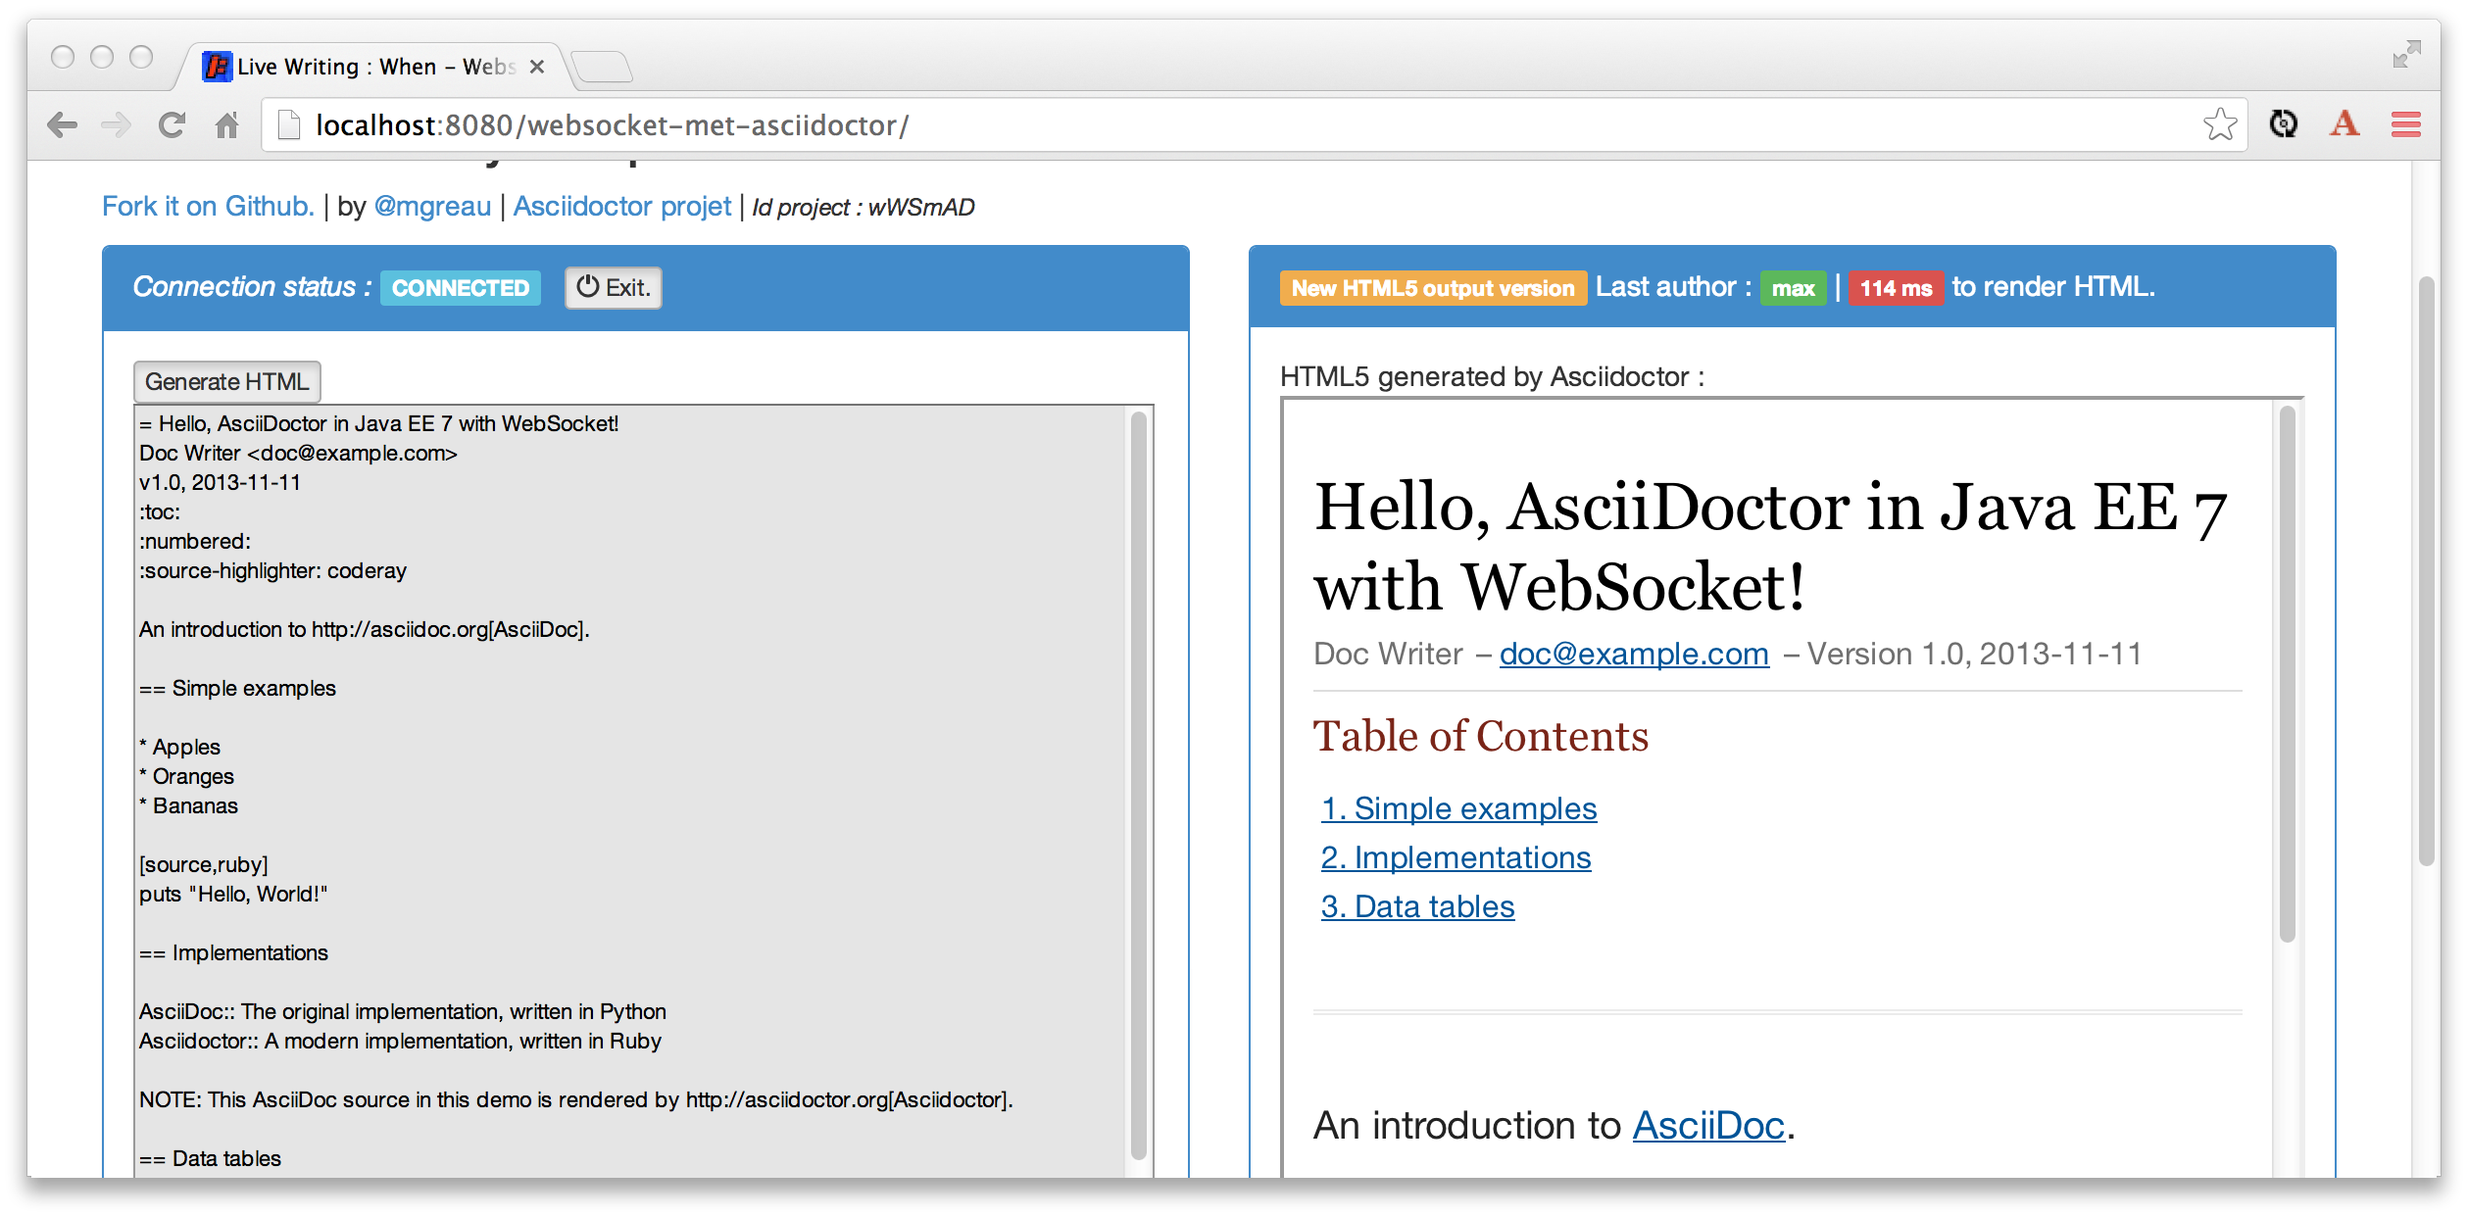
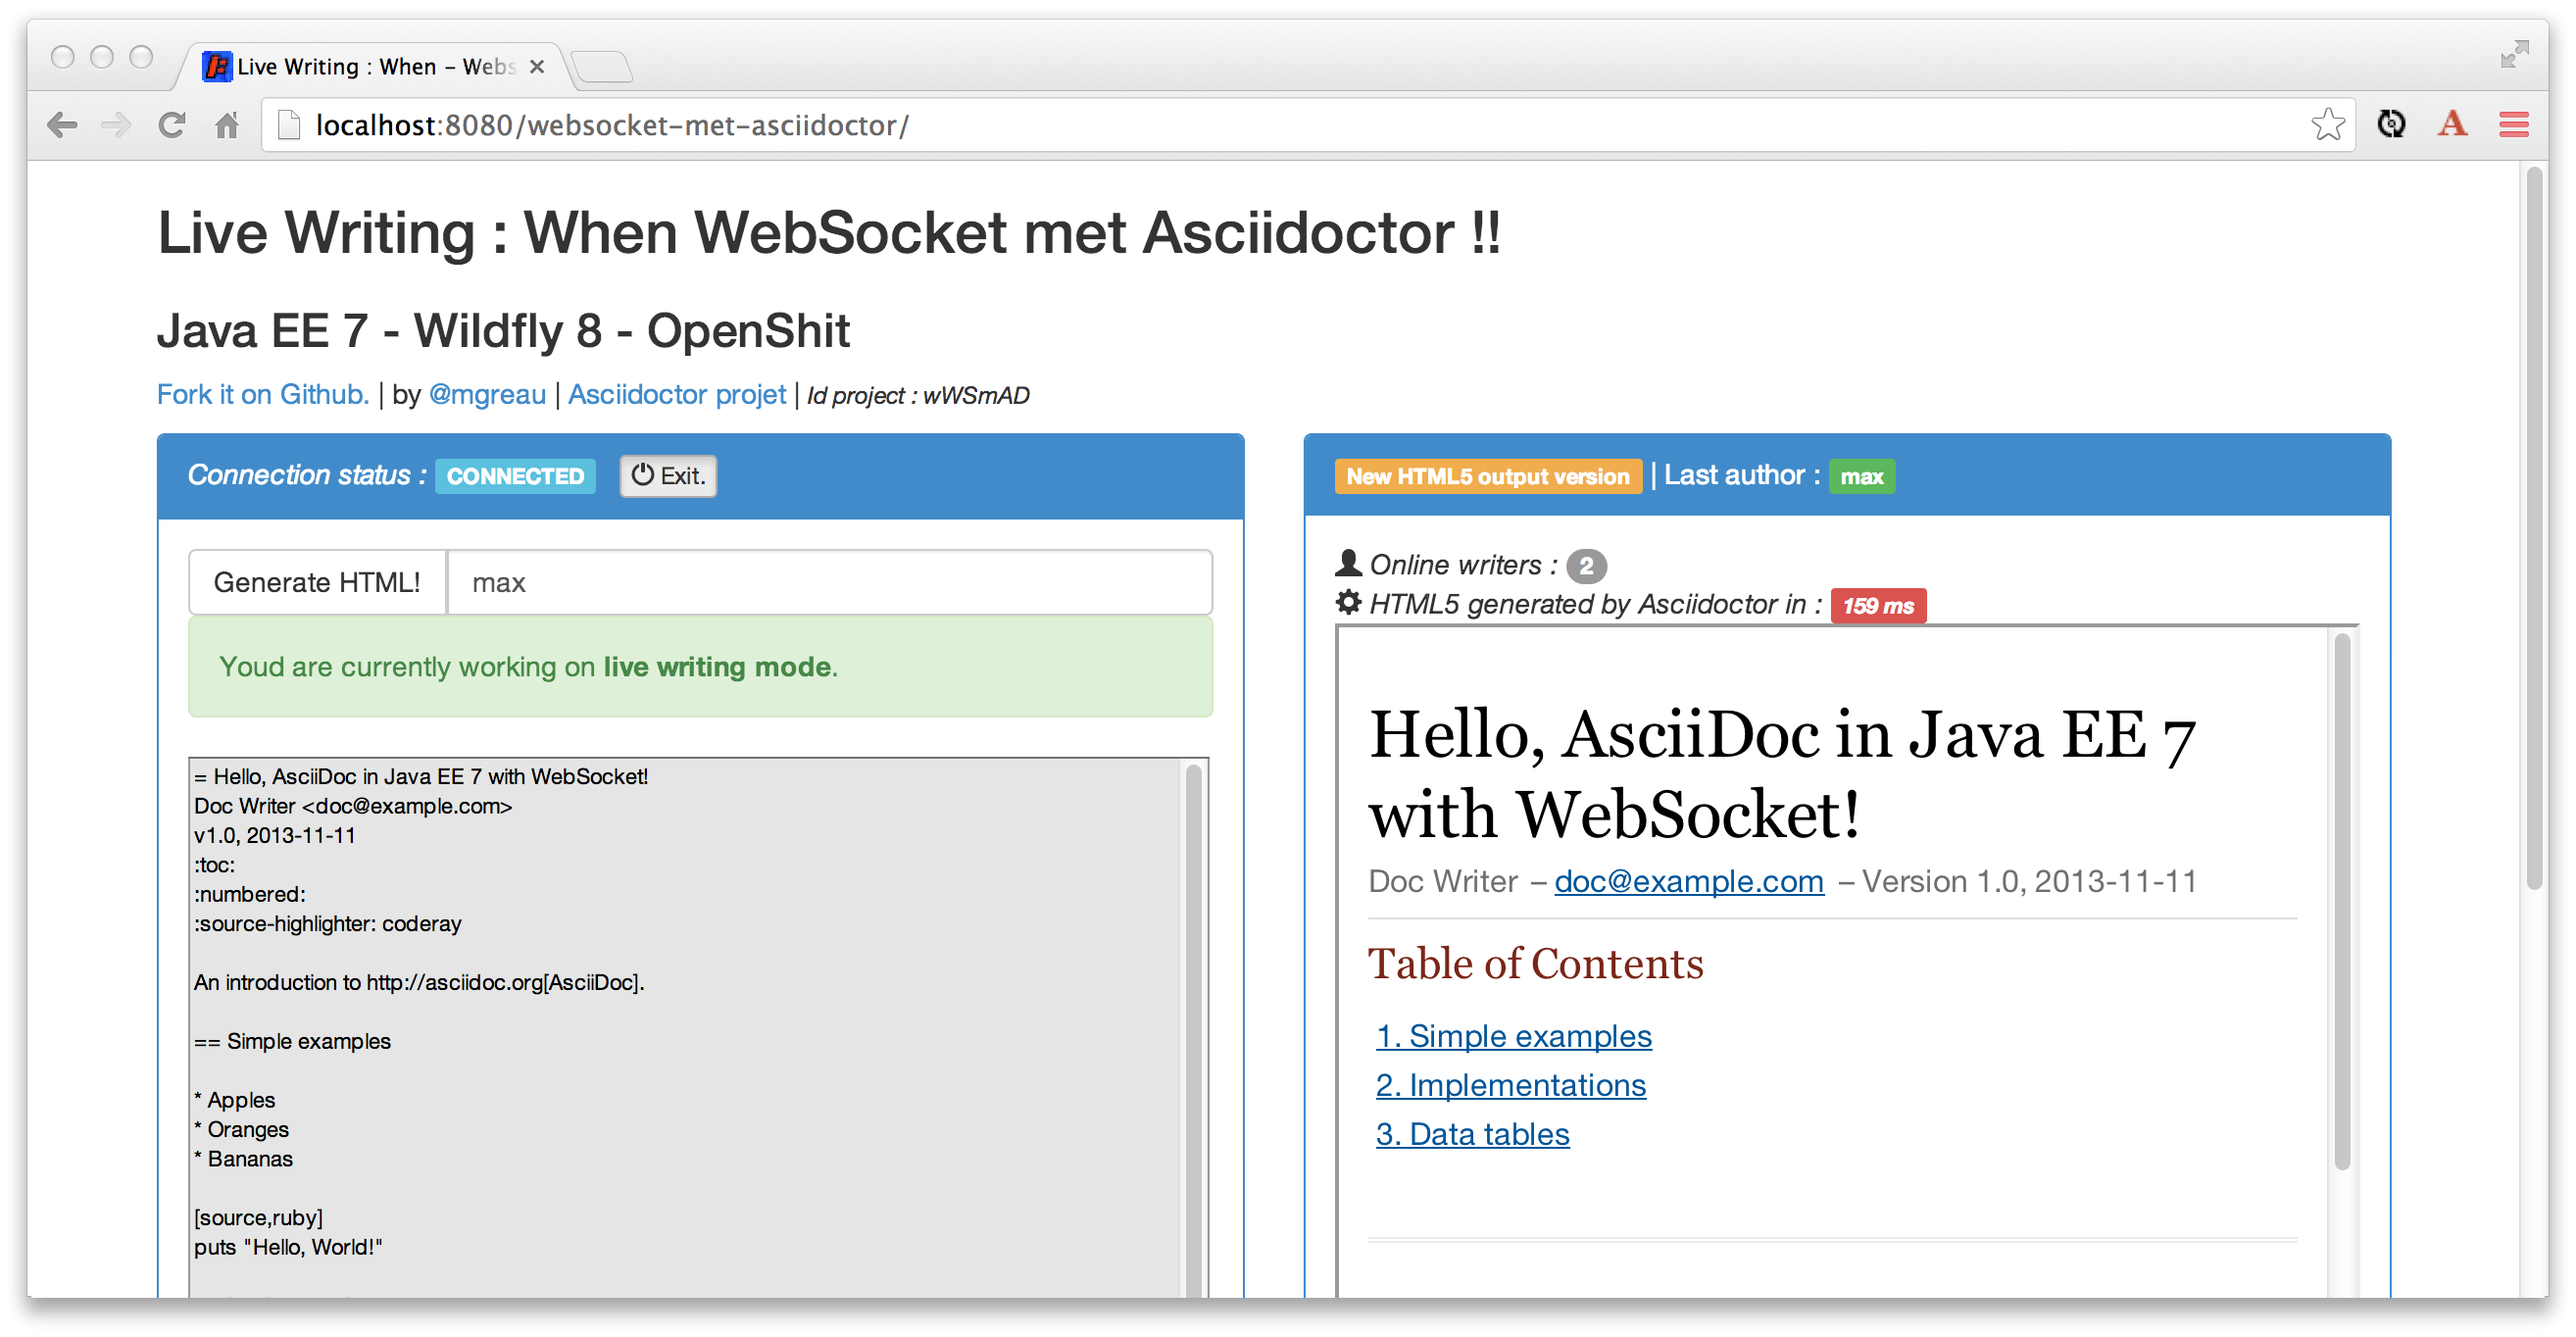
add nbWriters info + design + show the mode (live or offline)

Changed region(s): [[0.031, 0.0306, 0.9913, 0.9791], [0.9603, 0.6425, 0.9913, 0.7037], [0.0, 0.0918, 0.031, 0.1224]]

diff --git a/src/main/webapp/index.html b/src/main/webapp/index.html
@@ -10,13 +10,9 @@
 	href="http://netdna.bootstrapcdn.com/bootstrap/3.0.0/css/bootstrap.min.css">
 
 <style type="text/css">
-.sets {
+textarea input {
 	background-color: #e5E5E5;
-}
-
-.serve {
-	color: yellow;
-	background-color: #ccc
+	font: 11px;
 }
 </style>
 
@@ -40,13 +36,22 @@
 							<span class="glyphicon glyphicon-off"></span> Exit.</button>
 					</div>
 					<div class="panel-body">
-					<button class="btn btn-default active btn-xs" ng-show="lwDoc.status == 'CONNECTED'" ng-click="sendAdoc(lwDoc.key)">Generate HTML</button><br/>
-					<p ng-show="lwDoc.status == 'DISCONNECTED'">
-					  <button class="btn btn-warning active btn-xs" ng-click="connect(lwDoc.key)" >
-					<span class="glyphicon glyphicon-power"></span>click to access live writing</button></p>
-					<textarea style="font-size: 11px; background-color: #e5e5e5;" ng-model="lwDoc.adocSrc"
-						 cols="100" rows="30" ng-change="sendAdoc(lwDoc.key)"></textarea>
-					</div>
+					 	<div class="input-group" ng-show="lwDoc.status == 'CONNECTED'">
+					      <span class="input-group-btn">
+					        <button class="btn btn-default" type="button" ng-click="sendAdoc(lwDoc.key)">Generate HTML!</button>
+					      </span>
+					      <input type="text" class="form-control" placeholder="Your name (as an author)" ng-model="lwDoc.author">
+					    </div>
+						<div class="alert alert-warning" ng-show="lwDoc.status == 'DISCONNECTED'">
+						  <strong>Offline mode.</strong> Youd need <button class="btn btn-warning active btn-xs" ng-click="connect(lwDoc.key)" >
+							<span class="glyphicon glyphicon-power"></span>click to connect</button> and access live writing.
+						</div>
+						<div class="alert alert-success" ng-show="lwDoc.status == 'CONNECTED'">
+						  Youd are currently working on <strong>live writing mode</strong>.
+						</div>
+						<textarea style="font-size: 11px; background-color: #e5e5e5;" ng-model="lwDoc.adocSrc"
+							 cols="100" rows="30" ng-change="sendAdoc(lwDoc.key)"></textarea>
+						</div>
 					<div class="panel-footer">
 					</div>
 				</div>
@@ -55,12 +60,13 @@
 				<div class="panel panel-primary">
 					<div class="panel-heading">
 						<span class="label label-warning">{{lwDoc.state}}</span>
-						Last author : <span class="label label-success">{{lwDoc.html5.author}}</span> | 
-						<span class="label label-danger">{{lwDoc.html5.timeToRender}} ms</span> to render HTML.
-	
+						 | Last author : <span class="label label-success">{{lwDoc.html5.author}}</span>
 					</div>
 					<div class="panel-body">
-						HTML5 generated by Asciidoctor :
+						<span title="Number of bettors" class="glyphicon glyphicon-user"></span> 
+						<em>Online writers :</em> <span title="Number of bettors"  class="badge">{{lwDoc.html5.nbWriters}}</span> <br/>
+						<span title="Time to render HTML5" class="glyphicon glyphicon-cog"></span> 
+						<em>HTML5 generated by Asciidoctor in : <span class="label label-danger">{{lwDoc.html5.timeToRender}} ms</span> </em>
 						<iframe srcdoc="{{lwDoc.html5.source}}" width="100%" height="600px">
 						</iframe>
 					</div>

diff --git a/src/main/webapp/js/controllers.js b/src/main/webapp/js/controllers.js
@@ -9,6 +9,7 @@ app.controller("LiveWritingCtrl", function($scope, DocRESTService, WriterService
 	    		$scope.lwDocs["1234"].status = 'DISCONNECTED';
 	    		$scope.lwDocs["1234"].adocSrc = datas;
 	    		$scope.lwDocs["1234"].state = "Init Asciidoc source.";
+	    		$scope.lwDocs["1234"].auhtor = "";
 	});
 
 	//Messages sent by peer server are handled here
@@ -16,12 +17,13 @@ app.controller("LiveWritingCtrl", function($scope, DocRESTService, WriterService
 		try {
 			var obj = JSON.parse(message);
 
-			//Asciidoc message from server
+			//Asciidoc message from server (get last snapshot)
 			if (obj.hasOwnProperty("adoc")){
 				$scope.lwDocs[idAdoc].adoc = obj.adoc;
 				$scope.lwDocs[idAdoc].adocSrc = obj.adoc.source;
 				$scope.lwDocs[idAdoc].state = "Get last Asciidoc version";
 				$scope.lwDocs[idAdoc].key = idAdoc;
+				$scope.lwDocs[idAdoc].auhtor = obj.adoc.author;
 			} 
 			//Html5 output Message from server
 			else if (obj.hasOwnProperty("html5Backend")){
@@ -39,7 +41,7 @@ app.controller("LiveWritingCtrl", function($scope, DocRESTService, WriterService
 	});
 	
 	$scope.sendAdoc = function(idAdoc) {
-		WebSocketService.sendAdocSource(idAdoc, $scope.lwDocs[idAdoc].adocSrc, "max");
+		WebSocketService.sendAdocSource(idAdoc, $scope.lwDocs[idAdoc].adocSrc, $scope.lwDocs[idAdoc].author);
 	};
 
 	$scope.connect = function(idAdoc) {

diff --git a/src/main/java/com/mgreau/wildfly/websocket/WSMADEndpoint.java b/src/main/java/com/mgreau/wildfly/websocket/WSMADEndpoint.java
@@ -80,12 +80,13 @@ public class WSMADEndpoint {
         boolean isAlreadyAnAuhtor = session.getUserProperties().containsKey("isAuthor");
         session.getUserProperties().put("isAuthor", true);
         
-        //Send betMsg with bet count
+        //check if there is any author
         if (!nbWritersByAdoc.containsKey(adocId)){
         	nbWritersByAdoc.put(adocId, new AtomicInteger());
         }
         if (!isAlreadyAnAuhtor){
         	nbWritersByAdoc.get(adocId).incrementAndGet();
+        	
         }
         long start = System.currentTimeMillis();
         HTMLMessage html = new HTMLMessage(msg.getAuthor(), processor.renderAsDocument(msg.getAdocSource(), ""));
@@ -104,7 +105,7 @@ public class WSMADEndpoint {
     
     @OnClose
     public void closedConnection(Session session, @PathParam("adoc-id") String adocId) {
-    	if (session.getUserProperties().containsKey("bet")){
+    	if (session.getUserProperties().containsKey("isAuthor")){
             /* Remove bet */
     		 nbWritersByAdoc.get(adocId).decrementAndGet();
     	}

diff --git a/src/main/java/com/mgreau/wildfly/websocket/messages/HTMLMessage.java b/src/main/java/com/mgreau/wildfly/websocket/messages/HTMLMessage.java
@@ -1,5 +1,8 @@
 package com.mgreau.wildfly.websocket.messages;
 
+import java.util.ArrayList;
+import java.util.Collection;
+
 
 public class HTMLMessage extends Message {
 
@@ -9,10 +12,15 @@ public class HTMLMessage extends Message {
 	/** html source content */
 	private String htmlSource;
 	
+	/** time to process the file into html*/
 	private long timeToRender;
 	
 	/** Number of writers on this doc */
 	private Integer nbWriters;
+	
+	private Collection<String> authors = new ArrayList<String>();
+	
+	private Collection<String> connected = new ArrayList<String>();
 	
 	
 	public String toString(){
